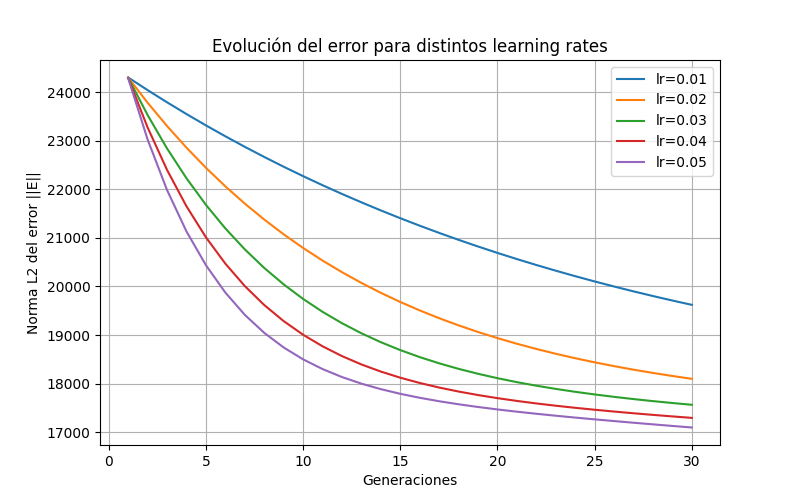
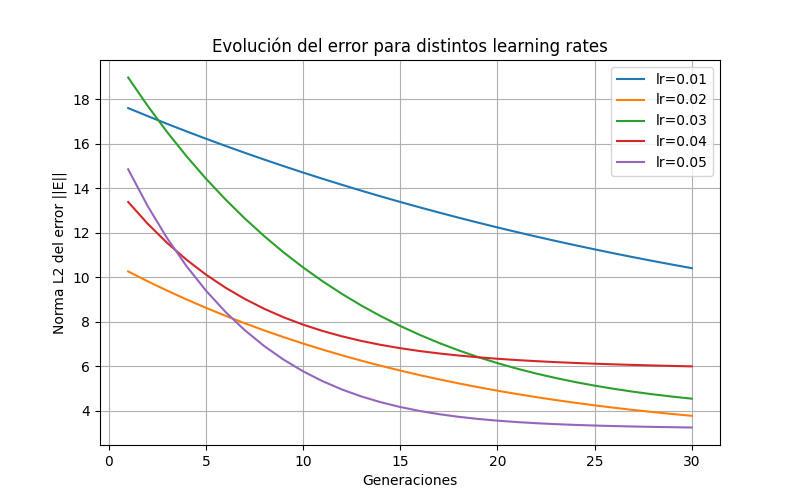
perceptron 1.1

diff --git a/neurona/main.py b/neurona/main.py
@@ -48,22 +48,29 @@ def codificar_strings(dataset):
     return dataset_numerico, diccionario
   
 def calcular_XyY(dataset):
-    # 1. separar etiquetas
-    y = [row[-1] for row in dataset]
+    y_raw = []
+    X_sin_bias = []
+    for row in dataset:
+        y_raw.append(row[-1])
+        X_sin_bias.append(row[:-1])
 
-    # 2. extraer solo features (sin y)
-    X_sin_bias = [row[:-1] for row in dataset]
-
-    # 3. normalizar features
     X_norm = normalizar_minmax(X_sin_bias)
 
-    # 4. agregar bias
-    X_final = [[1] + row for row in X_norm]
+    X_final = []
+    for row in X_norm:
+        X_final.append([1] + row)
 
-    print(f"Filas de X (muestras): {len(X_final)}")
-    print(f"Columnas de X (features + bias): {len(X_final[0])}")
+    y_min = min(y_raw)
+    y_max = max(y_raw)
 
-    return X_final, y
+    y_norm = []
+    for v in y_raw:
+        if y_max != y_min:
+            y_norm.append((v - y_min) / (y_max - y_min))
+        else:
+            y_norm.append(0.0)
+
+    return X_final, y_norm
     
 def normalizar_minmax(X):
     X_norm = []
@@ -93,18 +100,14 @@ def calcular_Yc(X,W, activacion):
     Yc=[]
     for fila in X:
         u=0
+        #print(f"len W: {len(W)}")
         for j in range(len(W)):            
             u += fila[j] * W[j]
-            
         y= activar_funcion(u, activacion)
-        Yc.append(u)
+        Yc.append(y)
+   
     return Yc
         
-""" def calcular_E(Y, Yc):
-    e = []
-    for y, yc in zip(Y, Yc):
-        e.append(y - yc)
-    return e """
 def calcular_E(Y, Yc):
     return [yc - y for y, yc in zip(Y, Yc)]
 
@@ -125,23 +128,23 @@ def actualizar_pesos(w, delta_w):
         w[i] -= delta_w[i]
     return w
 
-
 def cargar_lr():
     lr = [0.01, 0.02, 0.03, 0.04, 0.05]
     return lr
 
 def activar_funcion(u, activacion):
-    
-    # ADALINE / regresión lineal
     if activacion == "identidad":
         return u
-
-    # Perceptrón clásico (escalón)
     elif activacion == "escalon":
-        if u < 0:
-            return 0
-        else:
-            return 1
+        return 1 if u >= 0 else 0
+    elif activacion == "sigmoide":
+        return 1 / (1 + math.exp(-u))
+    elif activacion == "relu":
+        return max(0.0, u)
+    elif activacion == "tanh":
+        return math.tanh(u)
+    elif activacion == "leaky_relu":
+        return u if u >= 0 else 0.01 * u
 
 
 ###########################################################################
@@ -216,12 +219,11 @@ def main():
         print("Learning rate:", lr)
         w=cargar_pesos(n_pesos)
  
-        
         errores_hist = []
         pesos_hist = []
         
         for g in range(generaciones):
-            Yc = calcular_Yc(matriz_x,w, "identidad")   ##    escalon o identidad
+            Yc = calcular_Yc(matriz_x,w, "identidad")   ##    escalon || identidad ||
             errores=calcular_E(matriz_y, Yc)
             delta_w=calcular_delta_w(matriz_x, errores,lr)
             w = actualizar_pesos(w, delta_w)
@@ -246,4 +248,51 @@ if __name__ == "__main__":
     main()
 
  
- 
+# =============================================================================
+# GUÍA DE SELECCIÓN DE FUNCIÓN DE ACTIVACIÓN
+# =============================================================================
+#
+# ¿Cómo elegir? Observa la columna Y (última columna del dataset)
+#
+# -----------------------------------------------------------------------------
+# IDENTIDAD  →  Y continua, puede ser negativa, sin límite
+# -----------------------------------------------------------------------------
+# 120.5,  -33.2,  410.0,  88.1,  -200.3, -450.20
+# -88.3,   21.7, -190.4, -44.2,   310.1,  830.50
+#  44.1,  -99.8,  320.5,  12.3,  -150.7, -120.30
+# -210.4,  55.3, -410.2,  78.9,   220.4,  640.80
+#
+# -----------------------------------------------------------------------------
+# SIGMOIDE  →  Y solo tiene valores 0 o 1  (clasificación binaria)
+# -----------------------------------------------------------------------------
+# 120.5,  -33.2,  410.0,  88.1,  -200.3,  1.00
+# -88.3,   21.7, -190.4, -44.2,   310.1,  0.00
+#  44.1,  -99.8,  320.5,  12.3,  -150.7,  1.00
+# -210.4,  55.3, -410.2,  78.9,   220.4,  0.00
+#
+# -----------------------------------------------------------------------------
+# RELU  →  Y continua, siempre >= 0, puede tener ceros exactos
+# -----------------------------------------------------------------------------
+# 120.5,  -33.2,  410.0,  88.1,  -200.3,    0.00
+# -88.3,   21.7, -190.4, -44.2,   310.1, 1240.50
+#  44.1,  -99.8,  320.5,  12.3,  -150.7,    0.00
+# -210.4,  55.3, -410.2,  78.9,   220.4, 3180.80
+#
+# -----------------------------------------------------------------------------
+# TANH  →  Y acotada entre -1 y 1  (regresión normalizada o bipolar)
+# -----------------------------------------------------------------------------
+# 120.5,  -33.2,  410.0,  88.1,  -200.3, -0.85
+# -88.3,   21.7, -190.4, -44.2,   310.1,  0.92
+#  44.1,  -99.8,  320.5,  12.3,  -150.7, -0.43
+# -210.4,  55.3, -410.2,  78.9,   220.4,  0.67
+#
+# -----------------------------------------------------------------------------
+# ESCALÓN  →  Y solo 0 o 1, NO necesitas probabilidades, solo clase dura
+#             Diferencia con sigmoide: no es diferenciable, sin gradiente suave
+# -----------------------------------------------------------------------------
+# 120.5,  -33.2,  410.0,  88.1,  -200.3,  1.00
+# -88.3,   21.7, -190.4, -44.2,   310.1,  0.00
+#  44.1,  -99.8,  320.5,  12.3,  -150.7,  1.00
+# -210.4,  55.3, -410.2,  78.9,   220.4,  0.00
+#
+# =============================================================================
